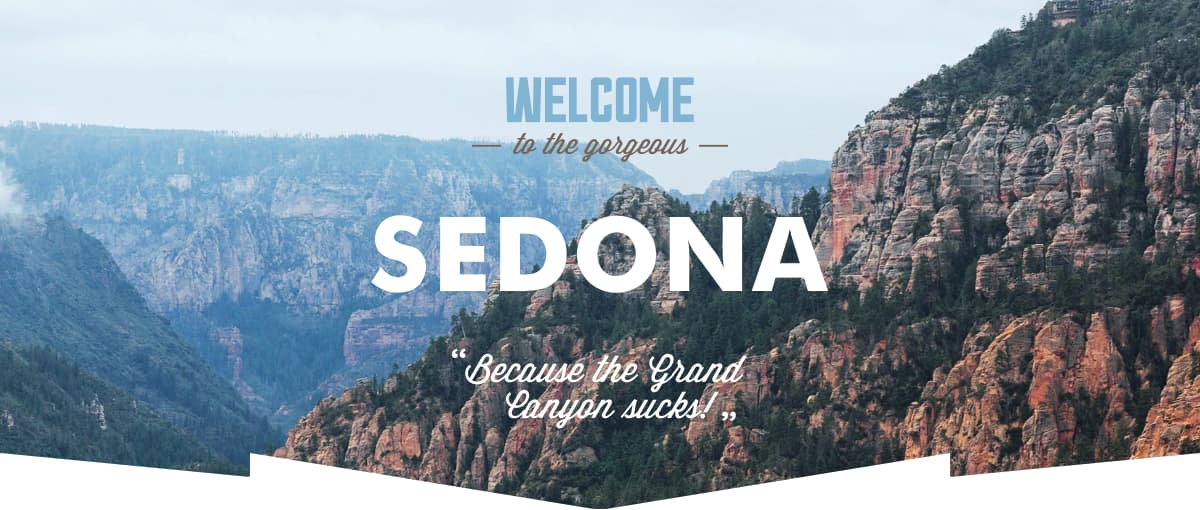
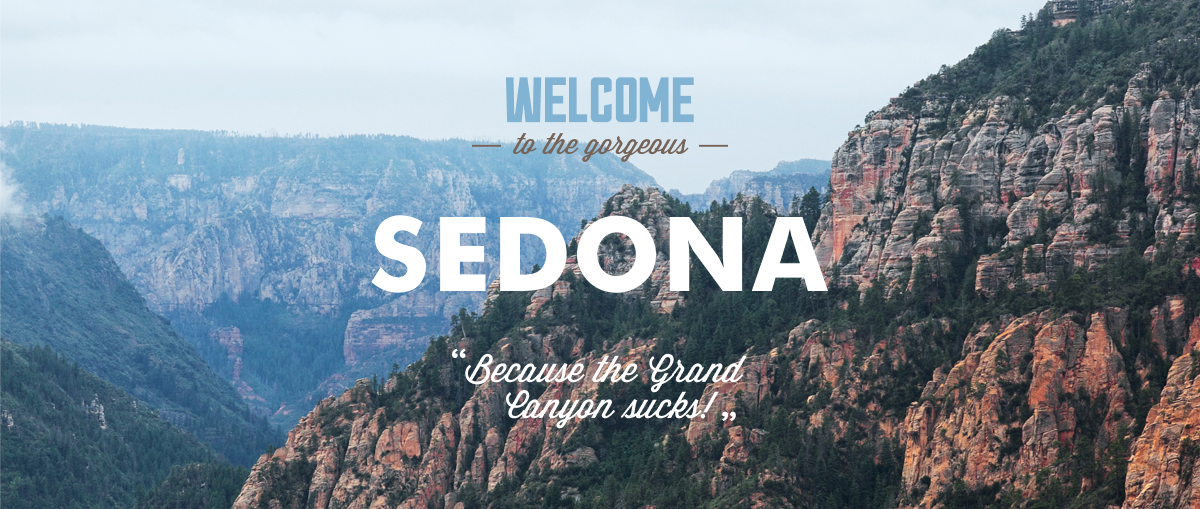
Внесены правки

diff --git a/css/style.min.css b/css/style.min.css
@@ -1,0 +1,1 @@
+:root{--basic-white:#FFFFFF;--basik-black:#000000;--basik-grey:#333333;--basik-light-gray:#766357;--basik-blue:#81B3D2;--blue:#669EC0;--dark-blue:#5496BD;--main-blue:#738ba0;--basik-medium-gray:#666666;--light-gray:#A9A9A9;--gray-brown:#604E43;--gray:#888888;--brown:#503E33;--gray-blue:#F2F2F2;--beige:#EBEBEB;--basic-neutral:#E5E5E5;--gray-silver:#CACACA;--cold-gray:#EEEEEE;--gray-gray:#6A6A6A;--background-gray:#39424a;--toggle-grey:#ABABAB}body{min-width:1200px;margin:0;padding:0;font-family:"PT Sans",Arial,sans-serif;font-size:14px;line-height:21px;font-weight:400;color:var(--grey);text-transform:uppercase;background-color:var(--basic-white);min-height:100%;display:grid;grid-template-rows:min-content 1fr min-content;align-content:start;justify-content:center}.body-container{width:1200px;box-shadow:0 0 15px 5px rgb(0 1 1/20%)}a{text-decoration:none}img{max-width:100%;height:auto}.page{height:100%}.main-navigation{line-height:26px;color:var(--basik-black);background-color:var(--basic-white);height:75px;width:1200px}.main-header-logo{position:relative;z-index:3;display:flex;justify-content:center;width:138px;height:70px;left:50%;transform:translateX(-50%)}.site-navigation{list-style:none;font-weight:700;display:flex;justify-content:space-between;box-sizing:border-box;position:relative;z-index:2;width:1200px;top:-85px;height:56px;padding:15px 0}.hotels-item,.photo,.site-item,.state-map{width:25%}.photo,.site-item{text-align:left}.hotels-item,.state-map{text-align:right}.site-item{padding-left:73px}.hotels-item,.photo,.site-item{box-sizing:border-box}.hotels-item{padding-right:73px}.photo{padding-left:3px}.site-item:hover,.site-navigation a:hover{color:var(--basik-blue)}.site-item:active{color:rgba(0,0,0,.3)}.site-navigation a{color:var(--basik-black)}.site-navigation a:active{color:var(--basik-black);opacity:30%}.site-item:visited,.site-navigation a:visited{color:var(--basik-light-gray)}.container{width:1200px;margin:0 auto}.mainimg{text-align:center;height:508px;position:relative}.mainimg .mainimage{margin-top:-20px;background-color:var(--main-blue)}.mask-image{position:relative;top:-63px}.accession{text-align:center;line-height:26px}.accession-title{font-size:21px;margin-top:25px;margin-bottom:43px}.accession .paragraph{color:var(--basik-grey);margin-bottom:51px}.content{background-color:var(--basik-blue);color:var(--basic-white);text-align:center;display:grid;grid-template-columns:1fr 2fr}.content-block{justify-self:center;height:256px;width:400px}.content-image{height:256px;width:800px}.content .title{font-size:21px;margin-top:47px;margin-bottom:27px;line-height:21px}.paragraph-cause{margin-bottom:54px;width:100%}.content-block .number-cause{margin-bottom:23px}.features .features-img{padding-top:60px}.features-list{list-style:none;text-align:center;display:grid;grid-template-columns:400px 400px 400px;justify-content:center;margin-top:0;margin-bottom:0;padding-bottom:0;height:330px;margin-left:0;padding-left:0}.paragraph .food{margin-top:10px}.food-img{margin-bottom:5px}.souvenirs-img{margin-bottom:-5px}.souvenirs-paragraph{margin-bottom:20px}.filter-list:first-child .features-img{margin-top:60px}.features-list .title{color:var(--basik-black);font-size:21px;margin-bottom:26px}.features-list .paragraph{color:var(--basik-grey);margin-bottom:82px;padding-right:0;margin-right:0}.content-two{background-color:var(--basik-blue);color:var(--basic-white);text-align:center;display:grid;grid-template-columns:2fr 1fr;justify-content:center;height:256px}.content-two-block{justify-self:center;margin-top:auto;margin-bottom:auto}.content-two-block .title{font-size:21px;text-align:center;margin-top:10px;margin-bottom:30px}.content-two-number{margin-top:15px;margin-bottom:20px}.edge{background-color:var(--cold-gray)}.edge-list{height:256px;list-style:none;text-align:center;display:grid;justify-content:center;grid-template-columns:1fr 1fr 1fr;margin-top:0}.edge-list .title{color:var(--basik-black);font-size:21px;margin-top:48px;margin-right:12px}.title-area{margin-left:-52px}.title-road{margin-left:-30px}.road-number{margin-left:-40px;padding-top:5px}.number-area,.number-tourists{margin-left:-15px;padding-top:5px}.number-area{margin-left:-68px;padding-bottom:8px}.paragraph-area{margin-right:67px;padding-top:2px}.paragraph-road{padding-top:10px;margin-right:36px}.paragraph-tourists{margin-top:23px;margin-right:10px}.edge-list .paragraph{color:var(--basik-grey)}.search{line-height:24px;text-align:center;display:grid;grid-template-columns:1fr;justify-content:center}.search .heading{font-size:30px;margin-top:42px;margin-right:15px}.paragraph-introduction{margin-top:10px;margin-bottom:10px}.popup{background-color:var(--basik-light-gray);color:var(--basic-white);text-decoration:none;font-weight:700;font-size:21px;width:568px;height:86px;display:flex;justify-content:center;align-items:center;margin-left:auto;margin-right:auto;margin-top:32px}.popup:hover{background-color:var(--gray-brown)}.popup:active{background-color:var(--brown);color:rgba(0,0,0,.3)}.modal{display:none}.search-form{width:458px;height:285px;color:var(--basik-black);background-color:var(--basic-white);font-weight:700;line-height:26px;box-shadow:0 7px 15px rgba(0,1,1,.15);justify-self:center;padding:55px;position:relative;top:-484px;left:316px}.dateexit,.daterrival{display:flex;justify-content:space-between;height:38px;margin-bottom:29px}.search-form input{background-color:var(--gray-blue);border:0;font-weight:700}.search-form .data:focus{background-color:var(--basic-white);border:var(--basic-neutral) solid 2px}.search-form .data:hover{background-color:var(--beige)}.search-form .data{width:342px;height:36px;display:block;padding:7px 30px 6px 10px;box-sizing:border-box}.popup-icon{fill:var(--light-gray)}.popup-form .data{text-transform:uppercase}.icon-minus{position:relative;top:-1px}.icon-date,.icon-plus{position:relative;top:2px}.icon-date{left:154px;top:-29px}.popup-label{margin-right:auto}.label-data{display:block;margin:5px 0 0 3px}.popup-icon:hover,.sorting-side-item-plus .side-item-plus:hover{fill:var(--basik-black)}.popup-icon:active{fill:var(--basik-blue)}.control{width:38px;height:38px;margin:0;padding:0;text-align:center}.demography{display:flex;justify-content:space-between;box-sizing:border-box;margin-bottom:54px}.demography-adults{margin:7px 0 0 2px}.demography-children{margin:6px 0 0 52px}.container-adults,.container-children{display:flex;width:50%;justify-content:space-between}.adults-quantity,.children-quantity{display:flex;justify-content:flex-end}.button-minus,.button-plus{border:0;width:38px;height:38px}.popup-form .button-find{width:100%;height:59px;background-color:var(--basik-blue);color:var(--basic-white);text-align:center;font-size:21px;line-height:26px;font-weight:700;text-transform:uppercase;padding:0;border:0}.button-find:hover{background-color:var(--blue)}.button-find:active{background-color:var(--dark-blue);color:var(--basic-white);color:rgba(255,255,255,.3)}.map{text-align:center;height:473px;margin-bottom:0;padding-bottom:0}.map-Sedona{border:0}.visually-hidden{position:absolute;width:1px;height:1px;margin:-1px;border:0;padding:0;white-space:nowrap;clip-path:inset(100%);clip:rect(0 0 0 0);overflow:hidden}.main-footer{display:flex;justify-content:space-between;height:120px;align-items:center}.contacts{width:33%;font-size:21px;line-height:34px;text-align:center;margin:0 0 10px 36px}.contacts-phone{text-decoration:none;color:var(--basik-black);fill:var(--basik-blue);margin-top:9px}.social-list{width:33%;list-style:none;text-align:center;display:grid;grid-template-columns:46px 46px 46px;gap:6px;justify-content:start;padding:6px 10px 0 0}.social-icon{fill:var(--basik-blue)}.social-icon:hover{fill:var(--blue)}.social-icon:active{fill:var(--dark-blue)}.copyright{width:33%;text-align:center;line-height:26px;padding:11px 35px 0 0}.website{position:relative;top:-13px}.logo-htmlacademy{fill:var(--basik-black);margin-left:15px}.logo-htmlacademy:hover,.sorting-side-item-plus .side-item-plus:active{fill:var(--basik-blue)}.logo-htmlacademy:active{fill:var(--gray)}.filter{background-color:var(--background-gray);background-image:url(../image/background-filter.jpg);height:217px;background-repeat:no-repeat;margin-top:-20px}.filteres{display:grid;grid-template-columns:1fr 1fr;margin-bottom:0;padding-bottom:0}.filter-checkbox{display:flex;flex-wrap:wrap;flex-direction:row;justify-content:start}.title{color:var(--basic-white);line-height:21px;font-size:16px;font-weight:700}.filter-checkbox .title{margin-bottom:4px}.housing-cost{border:0;margin-top:26px;margin-left:72px}.infrastructure{border:0;margin:27px 59px 0 60px}.type-housing{border:0;margin:27px 2px 0 42px}.filter-list{list-style:none;padding-left:0}.filter-option{margin-bottom:23px}.filter-option:last-child{margin-bottom:38px}.filter-input-checkbox{position:absolute;z-index:-1;opacity:0}.filter-input-checkbox+label{display:inline-flex;align-items:center;user-select:none}.filter-input-checkbox+label::before{content:'';display:inline-block;width:27px;height:23px;background-image:url(../image/checkbox-off.svg);border-radius:.25em;margin-right:16px;background-repeat:no-repeat}.filter-input-checkbox+label::before:disabled{background-color:var(--gray-gray)}.filter-input-checkbox:checked+label::before{background-image:url(../image/checkbox.svg);height:23px}.option{color:var(--basic-white)}.filter-checkbox-2{display:flex;justify-content:space-around;margin-left:62px}.housing-cost .title{margin-bottom:7px;margin-left:2px}.container-filter{border:2px solid var(--basic-white);width:313px;height:32px;margin-bottom:11px;color:var(--basic-white);display:grid;grid-template-columns:156px 157px;justify-content:center;align-items:center;position:relative}.filter-label{padding-left:64px;width:90px}.range-controls{position:relative;margin-bottom:32px;margin-top:20px;width:313px}.range-controls .bar{width:80%;height:2px;background:var(--basic-white)}.range-controls .scale{height:2px;background:rgba(255,255,255,.3);width:313px}.toggle,.toggle:hover{border-radius:50%;background:var(--toggle-grey);box-shadow:0 2px 1px 0 rgb(0 1 1/20%)}.toggle{position:absolute;top:-9px;left:10px;width:4px;height:4px;cursor:pointer;border:8px solid var(--basic-white)}.toggle-min{left:0}.toggle:hover{border:10px solid var(--basic-white)}.toggle-max{left:80%}.label-max{padding-right:33px;padding-left:42px;width:90px;text-align:right}.filter-input-number{width:50px;text-align:left;border:0;line-height:21px;background-color:transparent;color:var(--basic-white)}.container-filter::after{content:' ';background-image:url(../image/delimter.svg);width:2px;height:22px;background-repeat:no-repeat;position:absolute;top:15%;left:50%}.filter-input input[type=text]{background:0 0}.filter-button{display:flex;justify-content:center;margin-top:33px}.button-submit:hover{background-color:var(--basic-white);color:var(--basik-black)}.button-submit{background:0 0;border:2px var(--basic-white) solid;width:137px;height:36px;border-radius:2px;text-transform:uppercase;color:var(--basic-white)}.sorting-title{font-size:21px;line-height:26px;font-weight:700}.picking{font-size:12px;line-height:18px;align-self:center}.sorting{height:86px;display:grid;grid-template-columns:135px 809px 110px;grid-template-rows:1fr;align-items:center;padding-left:73px;padding-right:73px;padding-top:0;border-bottom:1px solid var(--basic-neutral)}.sorting-list{display:grid;grid-template-columns:75px 239px;margin-left:27px;margin-bottom:3px;gap:40px}.sorting-list .filter-list{display:grid;grid-template-columns:49px 49px 76px 1fr;align-items:center;gap:32px}.increase-decrease{width:110px;display:flex;flex-direction:row;justify-content:flex-end;list-style:none;padding-right:73px}.sorting-side-item-plus{margin-left:auto}.sorting-side-item{margin-left:12px}.sorting-link{color:rgba(0,0,0,.3);border-bottom:1px dotted rgba(0,0,0,.3)}.sorting-link:hover{color:var(--basik-blue);opacity:1}.sorting-link:active{color:var(--basik-black);border:0;opacity:1}.sorting-link:visited{color:var(--basik-blue);border:0;opacity:1}.sorting-side-item-plus .side-item-plus{fill:var(--gray-silver)}.article{display:grid;grid-template-rows:150px 150px 150px}.result{display:grid;grid-template-columns:135px 751px 110px;height:150px;gap:29px;padding-left:73px;padding-right:73px;border-bottom:1px solid var(--basic-neutral)}.imgresult{width:135px;height:90px;padding-top:30px;padding-bottom:30px}.result-description{width:641px;height:150px;margin-right:auto;display:grid;grid-column:1fr;justify-content:flex-start;margin-top:auto;margin-bottom:auto}.details{display:grid;grid-template-columns:110px 142px;gap:6px;justify-content:left;padding-bottom:0;margin-bottom:15px;height:27px}.result-title{font-size:21px;line-height:26px;padding-top:24px;padding-bottom:7px;margin:0}.result-title:hover{color:var(--basik-blue)}.result-title:active{color:rgba(0,0,0,.3)}.result-desc{width:110px;height:27px;text-align:left}.result-price{width:142px;text-align:left}.actions{padding:0;height:27px;margin-bottom:30px}.detail{color:var(--basic-white);font-weight:700;background-color:var(--basik-blue);width:110px;height:27px;padding:3px 17px 3px 16px;margin-right:6px}.detail:hover{background-color:var(--blue)}.detail:active{background-color:var(--dark-blue);color:rgba(255,255,255,.3)}.result-rating{display:flex;flex-direction:column;justify-content:space-between}.star{margin-left:auto;margin-right:0;padding-right:0;margin-top:29px}.to-book{color:var(--basic-white);font-weight:700;background-color:var(--basik-light-gray);width:142px;height:27px;padding:3px 17px 3px 16px}.to-book:hover{background-color:var(--gray-brown)}.to-book:active{background-color:var(--brown);color:rgba(255,255,255,.3)}.rating{color:var(--basik-medium-gray);background-color:var(--gray-blue);text-align:center;line-height:21px;width:110px;margin-left:auto;margin-bottom:30px;padding-top:3px;padding-bottom:3px}

diff --git a/css/style.css b/css/style.css
@@ -6,6 +6,7 @@
     --basik-blue:#81B3D2;
     --blue:#669EC0;
     --dark-blue: #5496BD;
+    --main-blue: #738ba0;
     --basik-medium-gray:#666666;
     --light-gray:#A9A9A9;
     --gray-brown:#604E43;
@@ -17,6 +18,8 @@
     --gray-silver:#CACACA;
     --cold-gray:#EEEEEE;
     --gray-gray:#6A6A6A;
+    --background-gray: #39424a; 
+    --toggle-grey: #ABABAB;
 }
 body {
     min-width: 1200px;
@@ -29,7 +32,6 @@ body {
   color: var(--grey);
   text-transform: uppercase;
   background-color: var(--basic-white);
-
   min-height: 100%;
   display: grid;
   grid-template-rows: min-content 1fr min-content;
@@ -68,26 +70,49 @@ img {
     z-index: 3;
     display: flex;
     justify-content: center;
+    width: 138px;
+    height: 70px;
+    left: 50%;
+    transform: translateX(-50%);
 }
 .site-navigation {
     list-style: none;
     font-weight: bold;
     display: flex;
-    flex-direction: center;
     justify-content: space-between;
-    align-items: center;
+    box-sizing: border-box;
     position: relative;
-    z-index: 4; 
-    top: -71px;  
-    margin: 0;
-    padding: 0;
+    z-index: 2; 
+    width: 1200px;
+    top: -85px;  
+    height: 56px;
+    padding: 15px 0 15px 0;
+}
+.site-item,
+.photo,
+.state-map,
+.hotels-item {
+    width: 25%;
+}
+.site-item,
+.photo {
+    text-align: left;
+}
+.state-map,
+.hotels-item {
+    text-align: right;
 }
 .site-item {
-    width: 20%;
-    padding-top: 15px;
-    padding-bottom: 15px;
-    align-self: center;
-    margin-right: -15px;
+    box-sizing: border-box;
+  padding-left: 73px;
+}
+.hotels-item {
+    box-sizing: border-box;
+    padding-right: 73px;
+}
+.photo {
+    box-sizing: border-box;
+    padding-left: 3px;
 }
 .site-item:hover {
     color: var(--basik-blue);
@@ -98,9 +123,8 @@ img {
 .site-item:visited {
     color: var(--basik-light-gray);
 }
-.site-item:first-child {
-    margin-left: 73px;
-}
+
+/*
 .site-item:first-child,
 .photo {
     text-align: left;
@@ -119,6 +143,7 @@ img {
     margin-right: 72px;
     margin-left: 147px;
 }
+*/
 .site-navigation a {
     color: var(--basik-black);
 }
@@ -137,11 +162,18 @@ img {
     width: 1200px;
     margin: 0 auto;
 }
-.mainImg {
+.mainimg {
     text-align: center;
+    height: 508px;
+    position: relative;
 }
-.mainImg .mainImage {
+.mainimg .mainimage {
     margin-top: -20px;
+    background-color: var(--main-blue);
+}
+.mask-image {
+    position: relative;
+    top: -63px;
 }
 .accession {
     text-align:center;
@@ -149,7 +181,7 @@ img {
 }
 .accession-title {
     font-size: 21px;
-    margin-top: 36px;
+    margin-top: 25px;
     margin-bottom: 43px;
 }
 .accession .paragraph {
@@ -559,7 +591,7 @@ img {
     width: 33%;
     text-align: center;
     line-height: 26px;
-    padding: 15px 33px 0px 0px;
+    padding: 11px 35px 0px 0px;
 }
 .website {
     position: relative;
@@ -577,6 +609,7 @@ img {
 }
 /*catalog*/
 .filter {
+    background-color: var(--background-gray);
     background-image: url(../image/background-filter.jpg);
     height: 217px;
     background-repeat: no-repeat;
@@ -714,7 +747,7 @@ img {
     cursor: pointer;
     border: 8px solid var(--basic-white);
     border-radius: 50%;
-    background: #ABABAB;
+    background: var(--toggle-grey);
     box-shadow: 0 2px 1px 0 rgb(0 1 1 / 20%);
   }
   .toggle-min {
@@ -724,7 +757,7 @@ img {
   .toggle:hover {
     border: 10px solid var(--basic-white);
     border-radius: 50%;
-    background: #ABABAB;
+    background: var(--toggle-grey);
     box-shadow: 0 2px 1px 0 rgb(0 1 1 / 20%);
   }
   .toggle-max {

diff --git a/index.html b/index.html
@@ -4,10 +4,10 @@
 <head>
   <meta charset="utf-8">
   <meta name="sedona" content="">
-  <link rel="icon" href="Favicon.ico">
+  <link rel="icon" href="favicon.ico">
   <link rel="stylesheet" href="https://fonts.googleapis.com/css?family=PT+Sans:400,700&amp;subset=cyrillic">
   <link rel="stylesheet" href="css/normalize.css">
-  <link rel="stylesheet" href="css/style.css">
+  <link rel="stylesheet" href="css/style.min.css">
   <title>Sedona</title>
 </head>
 
@@ -28,11 +28,11 @@
 
     </header>
     <main class="container">
-      <section class="mainImg">
+      <section class="mainimg">
         <h1 class="visually-hidden">SEDONA</h1>
-        <img class="mainImage" src="image/mainImg.jpg" alt="Главное изображение города Седона" width="1200"
-          height="453">
-
+        <img class="mainimage" src="image/mainimg.jpg" alt="Главное изображение города Седона" width="1200"
+          height="508">
+        <img class="mask-image" src="image/mask.png" alt="Подвал главного фото" width="1200" height="57">
       </section>
       <section class="accession">
 
@@ -45,7 +45,7 @@
           <p class="number-cause">— №1 —</p>
           <p class="paragrah-cause">Седона — не аттракцион для туристов, там <br> течёт своя жизнь</p>
         </div>
-        <img class="content-image" src="image/scenerySedona.png" alt="Пейзаж горододской жизни Седона" width="800"
+        <img class="content-image" src="image/scenery-sedona.png" alt="Пейзаж горододской жизни Седона" width="800"
           height="256">
       </section>
       <section class="features">
@@ -69,7 +69,7 @@
         </ul>
       </section>
       <section class="content-two">
-        <img src="image/devilsBridge.png" alt="Мост Дьявола города Седона" width="800" height="256">
+        <img src="image/devils-bridge.jpg" alt="Мост Дьявола города Седона" width="800" height="256">
         <div class="content-two-block">
           <h3 class="title">Там есть<br> Мост дьявола</h3>
           <p class="content-two-number">— №2 —</p>
@@ -225,12 +225,13 @@
         <h4 class="visually-hidden">Веб-сайт htmlacademy</h4>
         <p class="copy">
           <span class="website"> Website by </span><a href="https://htmlacademy.ru/intensive/htmlcss">
-            <img src="image/logo_htmlacademy.png" alt="Сайт htmlacademy" class="logo-htmlacademy"></a>
+            <img src="image/logo_htmlacademy.png" alt="Сайт htmlacademy" class="logo-htmlacademy" width="115"
+              height="33"></a>
         </p>
       </section>
     </footer>
   </div>
-  <script src="js/script.js"></script>
+  <script src="js/script.min.js"></script>
 </body>
 
 </html>

diff --git a/catalog.html b/catalog.html
@@ -4,10 +4,10 @@
 <head>
     <meta charset="utf-8">
     <meta name="sedona" content="">
-    <link rel="icon" href="Favicon.ico">
+    <link rel="icon" href="favicon.ico">
     <link rel="stylesheet" href="https://fonts.googleapis.com/css?family=PT+Sans:400,700&amp;subset=cyrillic">
     <link rel="stylesheet" href="css/normalize.css">
-    <link rel="stylesheet" href="css/style.css">
+    <link rel="stylesheet" href="css/style.min.css">
     <title>Каталог гостиниц Седона</title>
 </head>
 
@@ -228,11 +228,13 @@
                 <h4 class="visually-hidden">Веб-сайт htmlacademy</h4>
                 <p class="copy">
                     <span class="website"> Website by </span><a href="https://htmlacademy.ru/intensive/htmlcss">
-                        <img src="image/logo_htmlacademy.png" alt="Сайт htmlacademy" class="logo-htmlacademy"></a>
+                        <img src="image/logo_htmlacademy.png" alt="Сайт htmlacademy" class="logo-htmlacademy"
+                            width="115" height="33"></a>
                 </p>
             </section>
         </footer>
     </div>
+    <script src="js/script.min.js"></script>
 </body>
 
 </html>

diff --git a/js/script.min.js b/js/script.min.js
@@ -1,0 +1,2 @@
+
+const link=document.querySelector(".popup"),form=document.querySelector(".search-form");link.addEventListener("click",function(e){e.preventDefault(),form.classList.toggle("modal")});
